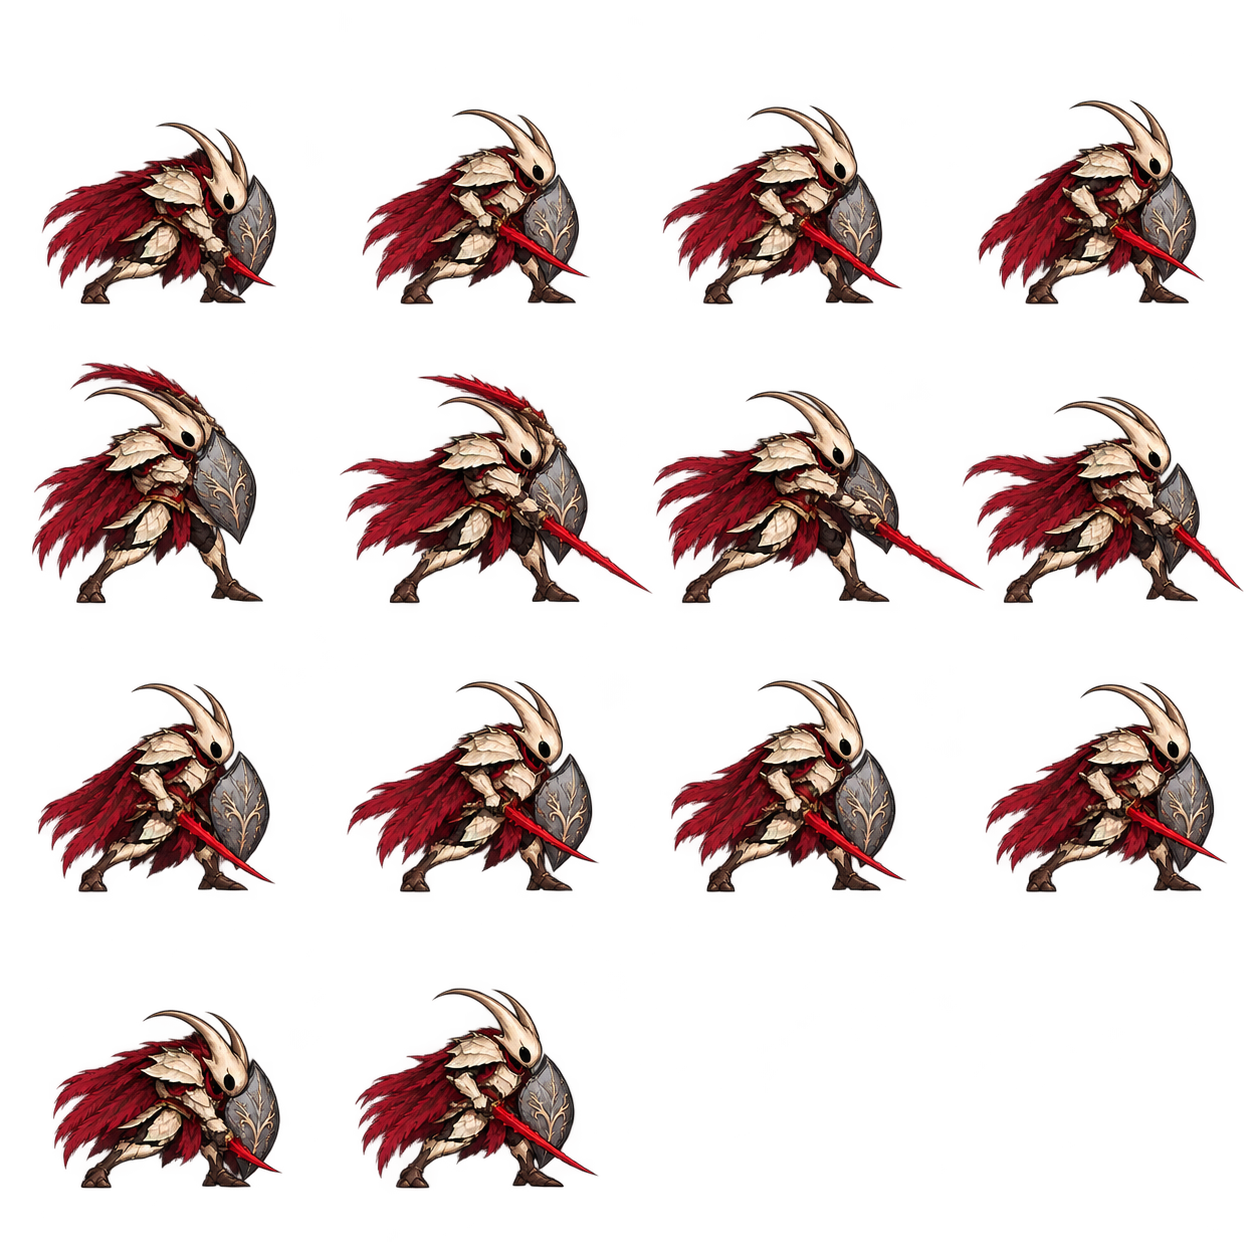
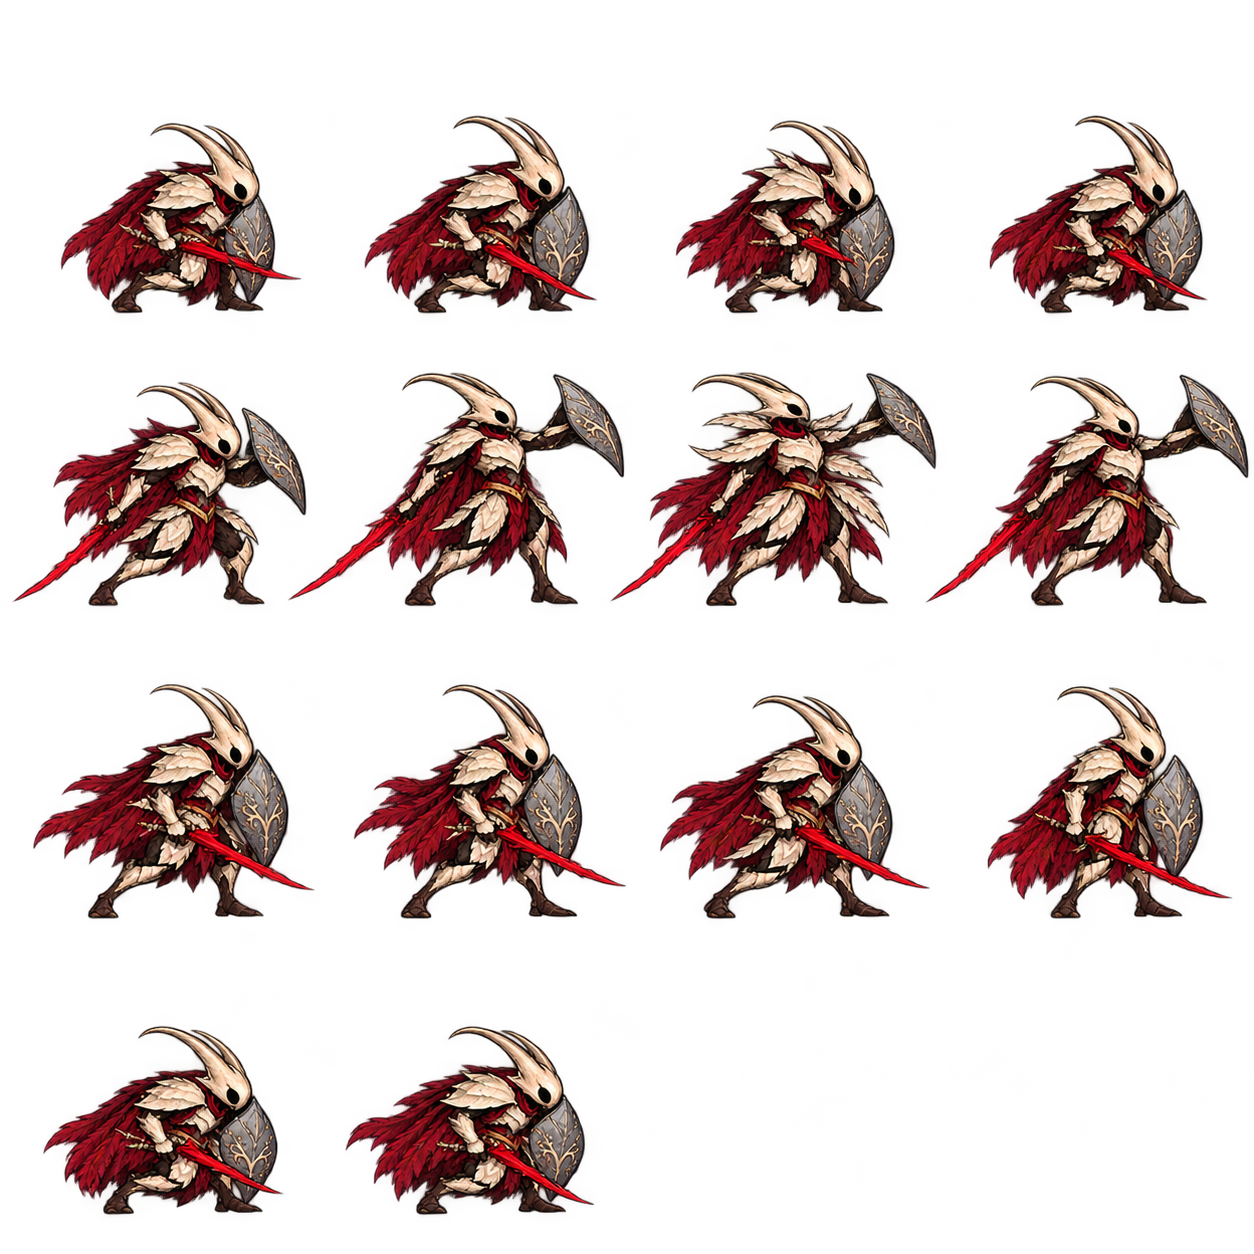
art: redraw echo thorn attack with wide arms and flared plates

diff --git a/art_requests/creature_attacks_v1/incoming/README.md b/art_requests/creature_attacks_v1/incoming/README.md
@@ -104,3 +104,5 @@
 重画记录（2026-10-18）：`echo_wheel_wave.png` — 14 格均保留原长剑与一面轮盾，分开抬盾、下砸推进及回收动作，补回原版缺失的剑。
 
 重画记录（2026-10-18）：`echo_wheel_elite.png` — 长剑在 14 格全程可见；第 6–9 格持盾手为空，接回后只保留一面盾牌，移除投盾残影。
+
+重画记录（2026-10-18）：`echo_thorn_double.png` — 第 6–8 格改为直立张开双臂，第 7 格全身附着甲片外翻，红刃向后下方展开；不再画成前刺，保留 14 格。
